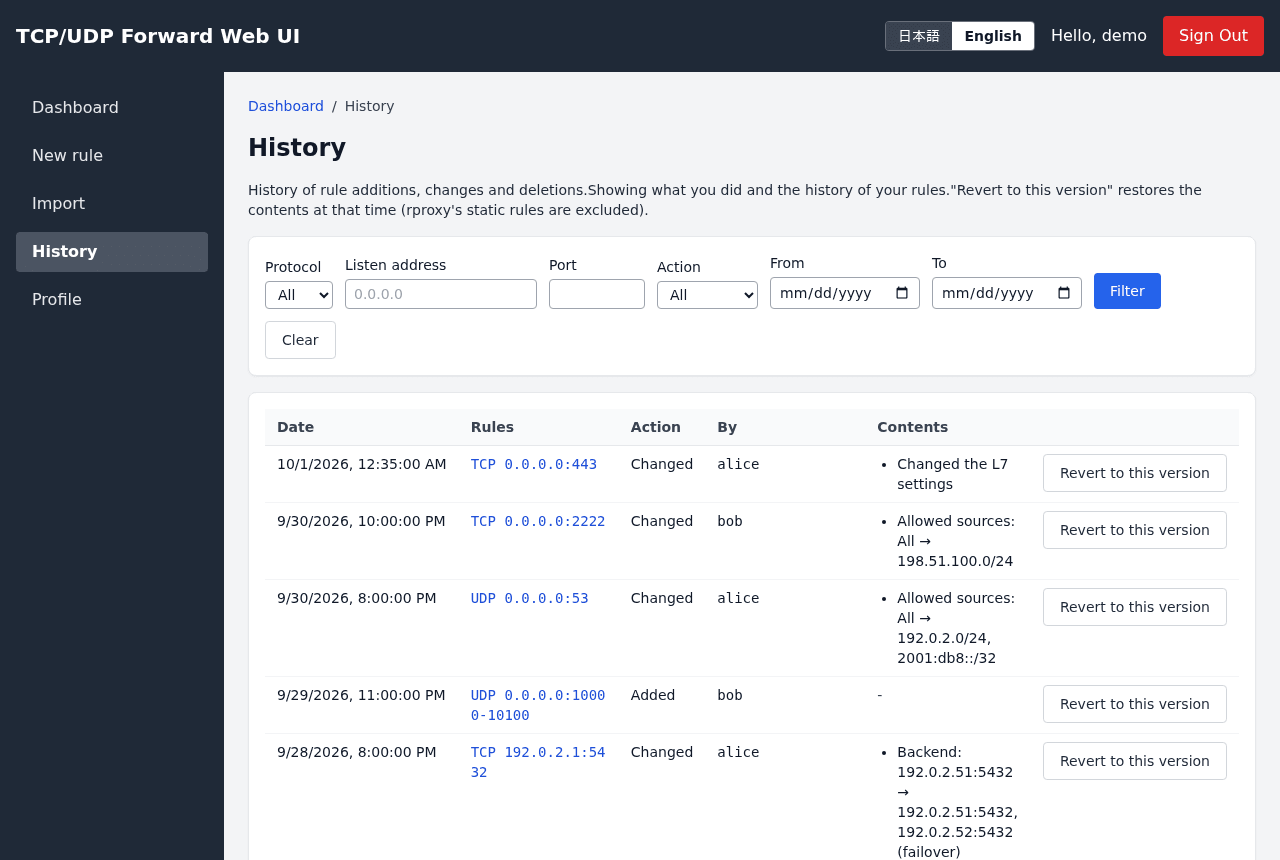
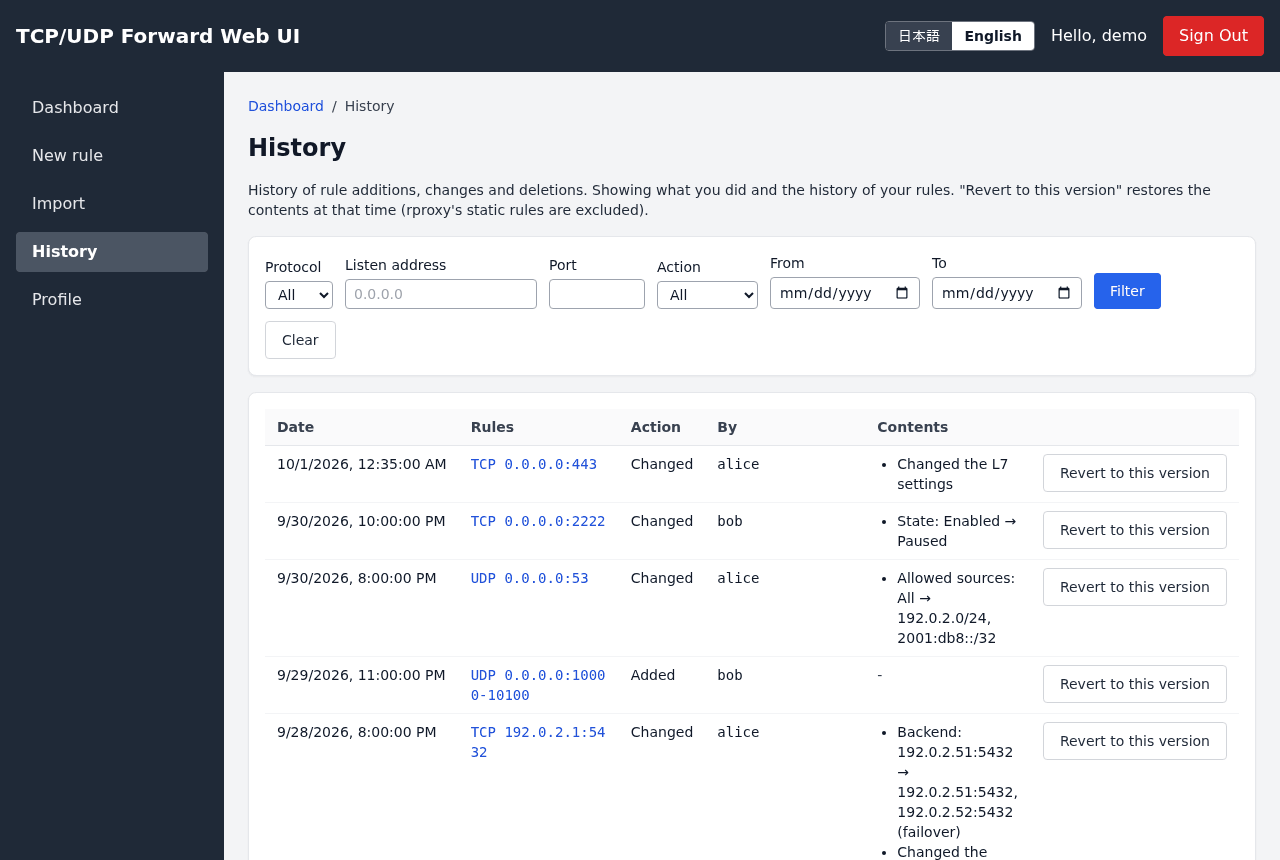
docs(README): i18n の修正（#94）のあとの画面に撮り直す
履歴のサンプルの差分の文を API と同じ ruleChanges で言語ごとに作り、一時停止の行
（状態: 有効 → 停止中 / State: Enabled → Paused）を戻す。英語の画面に日本語が残らない。

Claude-Session: https://claude.ai/code/session_01UyWFKfK7QhjFLgRBF1V9Bu

diff --git a/scripts/screenshots/sample-data.ts b/scripts/screenshots/sample-data.ts
@@ -1,7 +1,8 @@
 // README のスクリーンショット（scripts/screenshots）に出すサンプルのデータ。
 // アドレスは文書用のもの（192.0.2.0/24・198.51.100.0/24・2001:db8::/32）と example.com だけを使う
 import type { ForwardRule, ForwardRules } from '@/components/lib';
-import type { HistoryEntry } from '@/components/history';
+import { ruleChanges, type HistoryEntry } from '@/components/history';
+import { setLocale, type Locale } from '@/i18n/core';
 
 // 画面の時刻を固定する（自動更新の「最終更新」・稼働時間・履歴の日時が毎回同じになる）
 export const NOW = new Date('2026-10-01T10:00:00+09:00');
@@ -310,7 +311,7 @@ function plain(rule: ForwardRules): ForwardRule {
     allowFrom, http, crowdsec, targets, balance, healthCheck, extraListenAddrs, enabled };
 }
 
-function entry(id: number, secsAgo: number, actor: string, action: HistoryEntry['action'], rule: ForwardRules, changes: string[]): HistoryEntry {
+function entry(id: number, secsAgo: number, actor: string, action: HistoryEntry['action'], rule: ForwardRules, prev: ForwardRules | null = null): HistoryEntry {
   return {
     id,
     at: iso(secsAgo),
@@ -320,23 +321,33 @@ function entry(id: number, secsAgo: number, actor: string, action: HistoryEntry[
     srcAddr: rule.srcAddr,
     srcPort: rule.srcPort,
     rule: plain(rule),
-    changes,
+    // API と同じく、前の版との違いの文はリクエストの言語で作る
+    changes: prev ? ruleChanges(plain(prev), plain(rule)) : [],
     revertible: true,
   };
 }
 
-// 新しい順。changes は API（components/history.ts の ruleChanges）が作る文言と同じ形
-export const HISTORY: HistoryEntry[] = [
-  entry(12, 25 * 60, 'alice', 'UPDATE', l7, ['L7 の設定を変更']),
-  entry(11, 3 * 3600, 'bob', 'UPDATE', paused, ['接続を許可する送信元: すべて → 198.51.100.0/24']),
-  entry(10, 5 * 3600, 'alice', 'UPDATE', dns, ['接続を許可する送信元: すべて → 192.0.2.0/24, 2001:db8::/32']),
-  entry(9, 1 * DAY + 2 * 3600, 'bob', 'ADD', rtp, []),
-  entry(8, 2 * DAY + 5 * 3600, 'alice', 'UPDATE', db, ['転送先: 192.0.2.51:5432 → 192.0.2.51:5432, 192.0.2.52:5432（failover）', 'ヘルスチェックを変更']),
-  entry(7, 3 * DAY, 'alice', 'UPDATE', sni, ['TLS の設定を変更']),
-  entry(6, 4 * DAY, 'bob', 'ADD', turn, []),
-  entry(5, 4 * DAY + 3600, 'alice', 'DELETE', { ...turn, srcAddr: '0.0.0.0', srcPort: 3479 }, []),
-  entry(4, 6 * DAY, 'alice', 'UPDATE', l7, ['TLS のモード: passthrough → terminate', 'L7 の設定を変更']),
-  entry(3, 8 * DAY, 'bob', 'ADD', submission, []),
-  entry(2, 9 * DAY, 'alice', 'ADD', sni, []),
-  entry(1, 9 * DAY + 600, 'alice', 'ADD', l7, []),
-];
+const l7Http = l7.http as { routes: unknown[] };
+
+// 新しい順。changes は API と同じ ruleChanges で、1 つ前の版（prev）との違いから作る
+export function historyFor(lang: Locale): HistoryEntry[] {
+  setLocale(lang);
+  try {
+    return [
+      entry(12, 25 * 60, 'alice', 'UPDATE', l7, { ...l7, http: { ...l7Http, routes: l7Http.routes.slice(0, 2) } }),
+      entry(11, 3 * 3600, 'bob', 'UPDATE', paused, { ...paused, enabled: true }),
+      entry(10, 5 * 3600, 'alice', 'UPDATE', dns, { ...dns, allowFrom: [] }),
+      entry(9, 1 * DAY + 2 * 3600, 'bob', 'ADD', rtp),
+      entry(8, 2 * DAY + 5 * 3600, 'alice', 'UPDATE', db, { ...db, distAddr: '192.0.2.51', distPort: 5432, targets: [], healthCheck: null }),
+      entry(7, 3 * DAY, 'alice', 'UPDATE', sni, { ...sni, tls: { ...sni.tls, routes: sni.tls.routes?.slice(0, 1) } }),
+      entry(6, 4 * DAY, 'bob', 'ADD', turn),
+      entry(5, 4 * DAY + 3600, 'alice', 'DELETE', { ...turn, srcAddr: '0.0.0.0', srcPort: 3479 }),
+      entry(4, 6 * DAY, 'alice', 'UPDATE', l7, { ...l7, tls: { mode: 'passthrough' }, http: { ...l7Http, routes: l7Http.routes.slice(0, 1) } }),
+      entry(3, 8 * DAY, 'bob', 'ADD', submission),
+      entry(2, 9 * DAY, 'alice', 'ADD', sni),
+      entry(1, 9 * DAY + 600, 'alice', 'ADD', l7),
+    ];
+  } finally {
+    setLocale('ja');
+  }
+}

diff --git a/scripts/screenshots/screenshots.spec.ts b/scripts/screenshots/screenshots.spec.ts
@@ -3,8 +3,9 @@ import fs from 'node:fs';
 import path from 'node:path';
 import { expect, test, type BrowserContext, type Page } from '@playwright/test';
 import { encode } from 'next-auth/jwt';
+import type { Locale } from '@/i18n/core';
 import { NEXTAUTH_SECRET, baseURL } from './playwright.config';
-import { CAPABILITIES, CONFIG_STATUS, DETAIL_RULE, HISTORY, INTERFACES, NOW, RULES } from './sample-data';
+import { CAPABILITIES, CONFIG_STATUS, DETAIL_RULE, INTERFACES, historyFor, NOW, RULES } from './sample-data';
 
 const OUT_DIR = path.join(__dirname, '..', '..', 'docs', 'images');
 const DESKTOP = { width: 1280, height: 860 };
@@ -24,7 +25,8 @@ async function signIn(context: BrowserContext, lang: string): Promise<void> {
 }
 
 // 画面が呼ぶ API（/api/forward/*）をサンプルのデータで返す。サーバには届かない
-async function mockApi(context: BrowserContext): Promise<void> {
+async function mockApi(context: BrowserContext, lang: Locale): Promise<void> {
+  const history = historyFor(lang);
   await context.route('**/api/forward/**', async (route) => {
     const url = new URL(route.request().url());
     const action = url.pathname.replace('/api/forward/', '');
@@ -41,7 +43,7 @@ async function mockApi(context: BrowserContext): Promise<void> {
       }
       case 'history': {
         const q = url.searchParams;
-        const entries = HISTORY.filter((e) => (!q.get('protocol') || e.protocol === q.get('protocol'))
+        const entries = history.filter((e) => (!q.get('protocol') || e.protocol === q.get('protocol'))
           && (!q.get('addr') || e.srcAddr === q.get('addr'))
           && (!q.get('port') || String(e.srcPort) === q.get('port')));
         const perPage = Number(q.get('per_page') ?? 20);
@@ -83,7 +85,7 @@ async function shoot(page: Page, name: string, lang: string, fullPage = false): 
 // 言語はプロジェクト（playwright.config.ts の ja / en）の名前
 test.beforeEach(async ({ context, page }, testInfo) => {
   await signIn(context, testInfo.project.name);
-  await mockApi(context);
+  await mockApi(context, testInfo.project.name as Locale);
   await page.clock.setFixedTime(NOW);
 });
 
